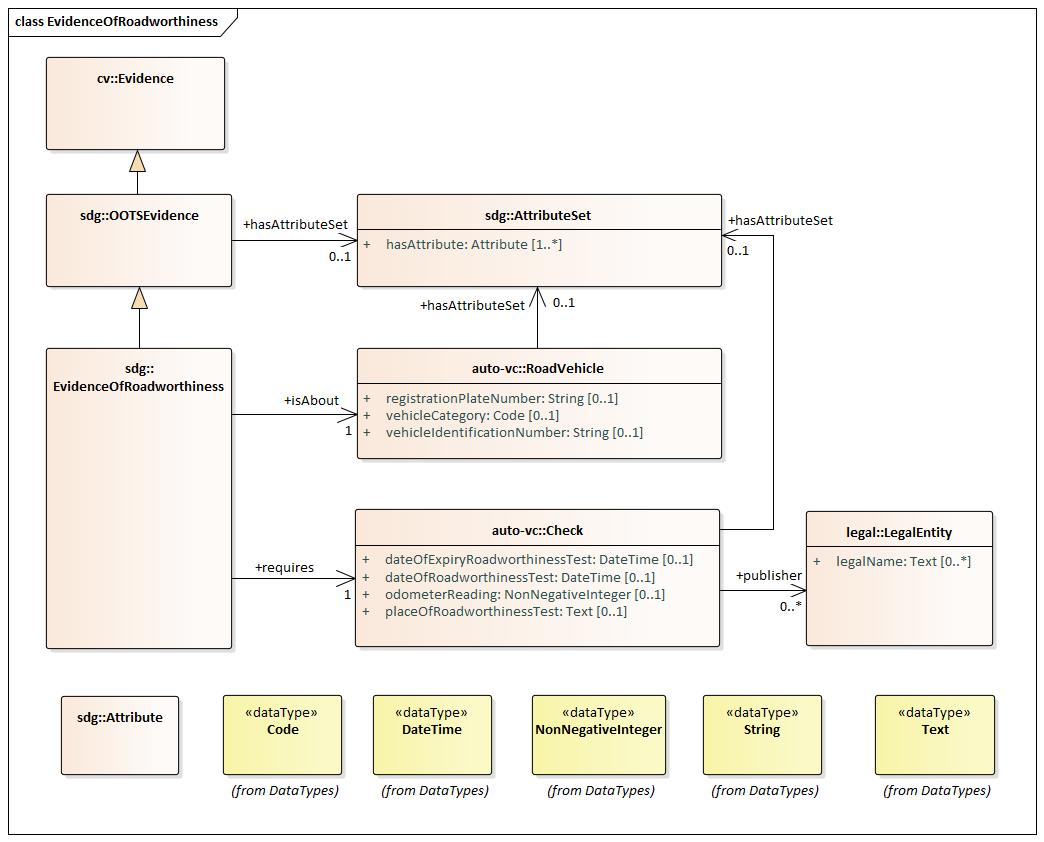
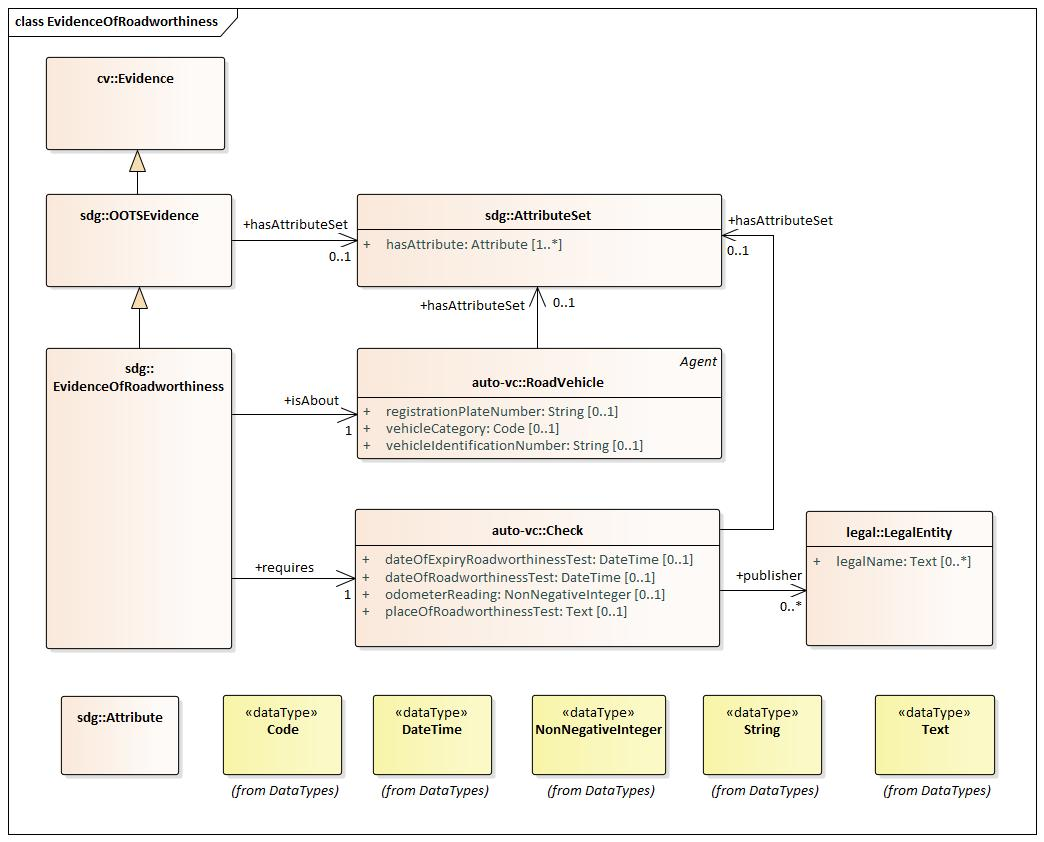
Applying changes from commit 65a3513e274dd5e454128bb8ac8db7be93ab5076

Changed region(s): [[0.3678, 0.4323, 0.613, 0.5558], [0.6437, 0.4014, 0.6743, 0.4323]]

diff --git a/OOTS/EvidenceOfRoadworthiness/releases/0.0.2/index.html b/OOTS/EvidenceOfRoadworthiness/releases/0.0.2/index.html
@@ -1362,6 +1362,13 @@ In some cases, the Output of one service will be Evidence for another service. S
                 
                 
                     <dt>
+                        Subclass of
+                        <dt>
+                            <dd> <a href="http://xmlns.com/foaf/0.1/Agent">Agent</a>
+                                
+                        </dd>
+                    
+                    <dt>
                         Properties
                     </dt>
                     

diff --git a/OOTS/EvidenceOfRoadworthiness/releases/0.0.2/index_en.html b/OOTS/EvidenceOfRoadworthiness/releases/0.0.2/index_en.html
@@ -1362,6 +1362,13 @@ In some cases, the Output of one service will be Evidence for another service. S
                 
                 
                     <dt>
+                        Subclass of
+                        <dt>
+                            <dd> <a href="http://xmlns.com/foaf/0.1/Agent">Agent</a>
+                                
+                        </dd>
+                    
+                    <dt>
                         Properties
                     </dt>
                     
